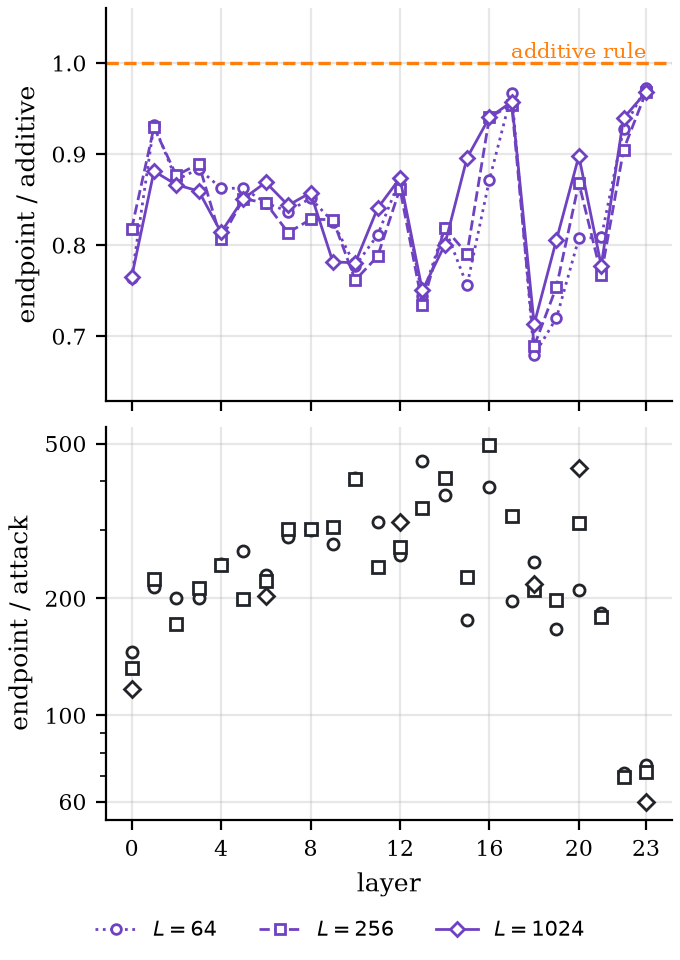
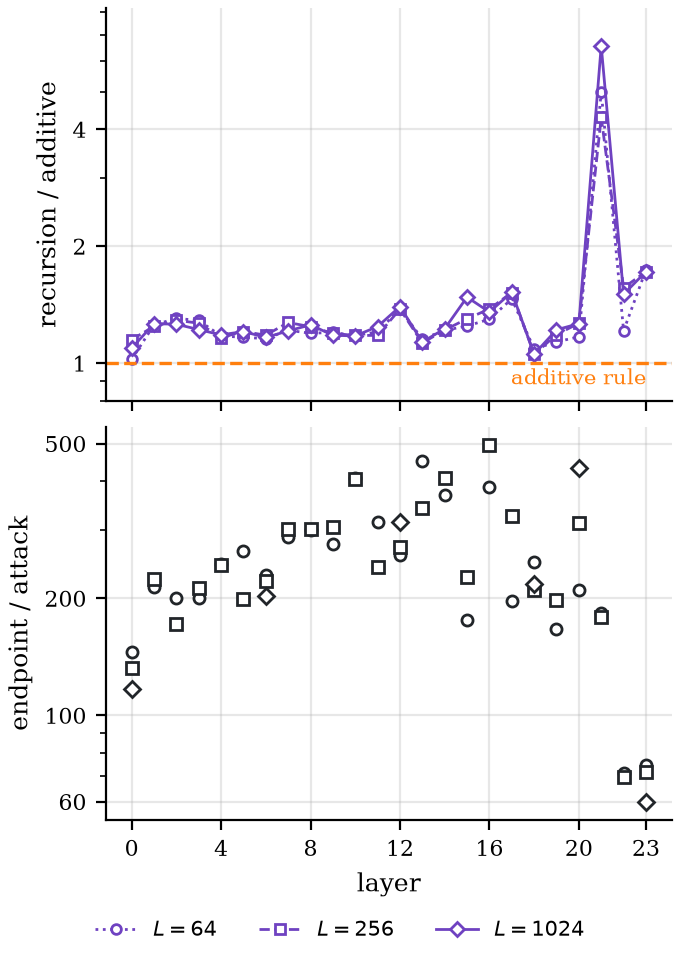
Show the theorem's own local form in the released-model figure
The top panel of released_local plotted the endpoint rule over the additive
rule, a ratio that cannot exceed one because the endpoint rule maximises over
the intersection of the two intervals. It now plots the recursion, which uses
the theorem's bound alone, over the additive rule: 1.02 to 6.55 in all 72
(layer, length) pairs at delta = 1e-6, so on mamba-130m-hf the theorem's local
form is the looser of the two in every layer. The endpoint-over-additive
range is still reported by the script.

diff --git a/scripts/15_local_figures.py b/scripts/15_local_figures.py
@@ -152,9 +152,10 @@ def end_to_end(attack: dict, path: Path) -> dict:
 
 
 def released_local(rel: dict, path: Path) -> dict:
-    """mamba-130m-hf at delta = 1e-6, layer by layer: the endpoint rule over the additive rule
-    at every length (top), and the endpoint rule over the attack where a layer was attacked
-    (bottom)."""
+    """mamba-130m-hf at delta = 1e-6, layer by layer: the theorem's own local form (the
+    recursion) over the additive rule at every length (top), and the endpoint rule over the
+    attack where a layer was attacked (bottom). The endpoint rule over the additive rule is
+    at most one by construction, so it is reported as a range and not drawn."""
     deltas = rel["run"]["deltas"]
     j = _index(deltas, DELTA)
     lengths = rel["run"]["lengths"]
@@ -162,13 +163,15 @@ def released_local(rel: dict, path: Path) -> dict:
            for e in rel["experiments"]}
     layers = sorted({e["layer"] for e in rel["experiments"]})
     fig, (top, bottom) = plt.subplots(2, 1, figsize=COLUMN, sharex=True, layout="constrained")
-    ratios, over_attack = [], []
+    ratios, recursion, over_attack = [], [], []
     for L in lengths:
-        r = [exp[(l, L)]["local"]["log_delta_endpoint"]["lip_max"]
+        ratios += [exp[(l, L)]["local"]["log_delta_endpoint"]["lip_max"]
+                   / exp[(l, L)]["local"]["additive"]["lip_max"] for l in layers]
+        r = [exp[(l, L)]["local"]["log_delta_recursive"]["lip_max"]
              / exp[(l, L)]["local"]["additive"]["lip_max"] for l in layers]
-        ratios += r
-        top.plot(layers, r, color=LOCAL, linewidth=1.0, markersize=3.5, markerfacecolor="white",
-                 label=f"$L = {L}$", **LENGTH_STYLE.get(L, {}))
+        recursion += r
+        top.semilogy(layers, r, color=LOCAL, linewidth=1.0, markersize=3.5,
+                     markerfacecolor="white", label=f"$L = {L}$", **LENGTH_STYLE.get(L, {}))
         att = [l for l in layers if exp[(l, L)]["attacked"]]
         q = [exp[(l, L)]["local"]["log_delta_endpoint"]["lip_max"] / exp[(l, L)]["slope_max"]
              for l in att]
@@ -178,9 +181,12 @@ def released_local(rel: dict, path: Path) -> dict:
         bottom.semilogy(att, q, color=INK, linestyle="none", markersize=4, markerfacecolor="white",
                         marker=LENGTH_STYLE.get(L, {}).get("marker", "o"))
     top.axhline(1.0, color=OTHER, linewidth=1.2, linestyle="--")
-    top.text(layers[-1], 1.0, "additive rule", color=OTHER, fontsize=7.5, ha="right", va="bottom")
-    top.set_ylim(min(ratios) - 0.05, 1.06)
-    top.set_ylabel("endpoint / additive")
+    top.text(layers[-1], 0.97, "additive rule", color=OTHER, fontsize=7.5, ha="right", va="top")
+    top.set_ylim(0.8, 1.25 * max(recursion))
+    top.set_yticks([1, 2, 4])
+    top.yaxis.set_major_formatter(matplotlib.ticker.ScalarFormatter())
+    top.yaxis.set_minor_formatter(matplotlib.ticker.NullFormatter())
+    top.set_ylabel("recursion / additive")
     bottom.set_ylabel("endpoint / attack")
     bottom.set_yticks([60, 100, 200, 500])
     bottom.yaxis.set_major_formatter(matplotlib.ticker.ScalarFormatter())
@@ -190,7 +196,9 @@ def released_local(rel: dict, path: Path) -> dict:
     handles, labels = top.get_legend_handles_labels()
     fig.legend(handles, labels, loc="outside lower center", ncol=3, frameon=False)
     save(fig, path)
-    return {"endpoint_over_additive": [round(min(ratios), 3), round(max(ratios), 3)],
+    return {"recursion_over_additive": [round(min(recursion), 3), round(max(recursion), 3)],
+            "recursion_pairs_above_one": f"{sum(1 for x in recursion if x > 1)} of {len(recursion)}",
+            "endpoint_over_additive": [round(min(ratios), 3), round(max(ratios), 3)],
             "pairs_below_one": f"{sum(1 for x in ratios if x < 1)} of {len(ratios)}",
             "endpoint_over_attack": [round(min(over_attack), 1), round(max(over_attack), 1)]}
 
